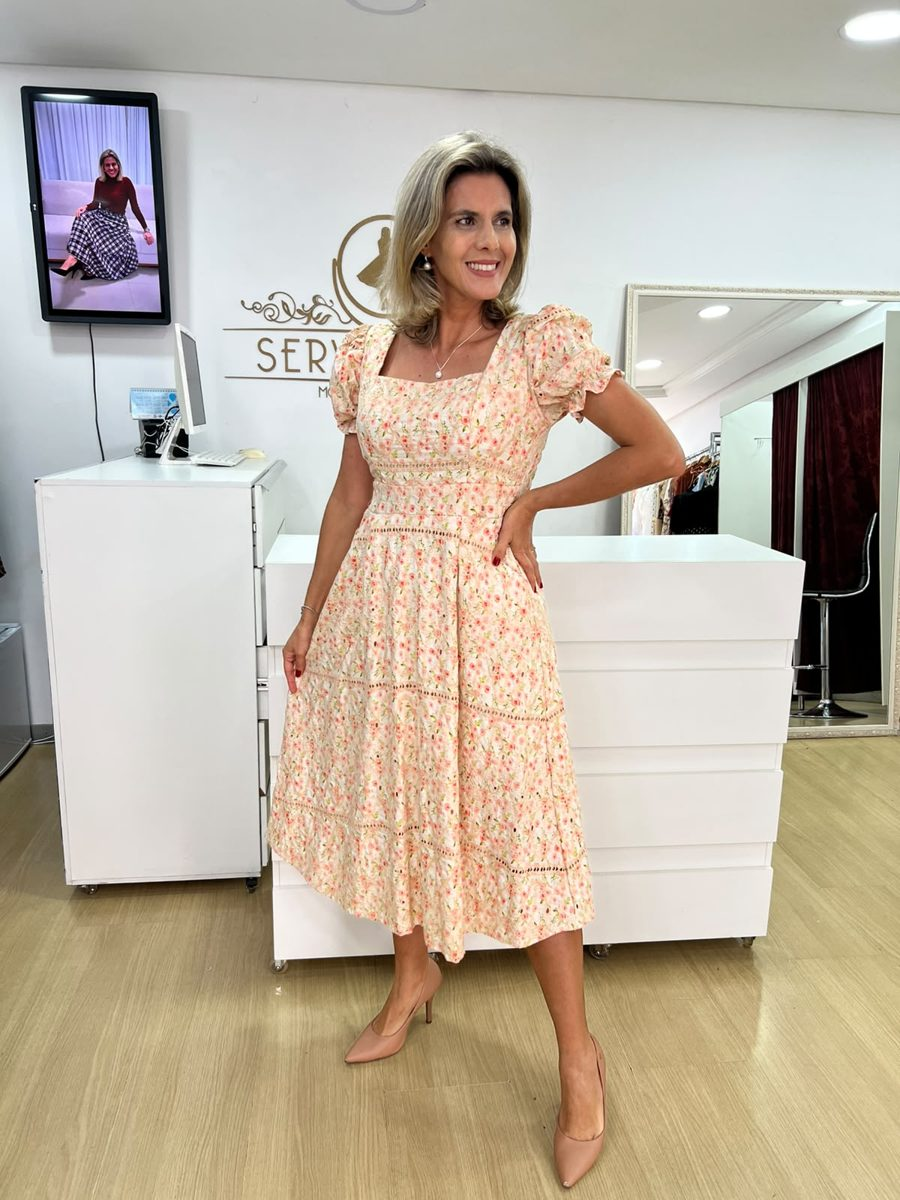
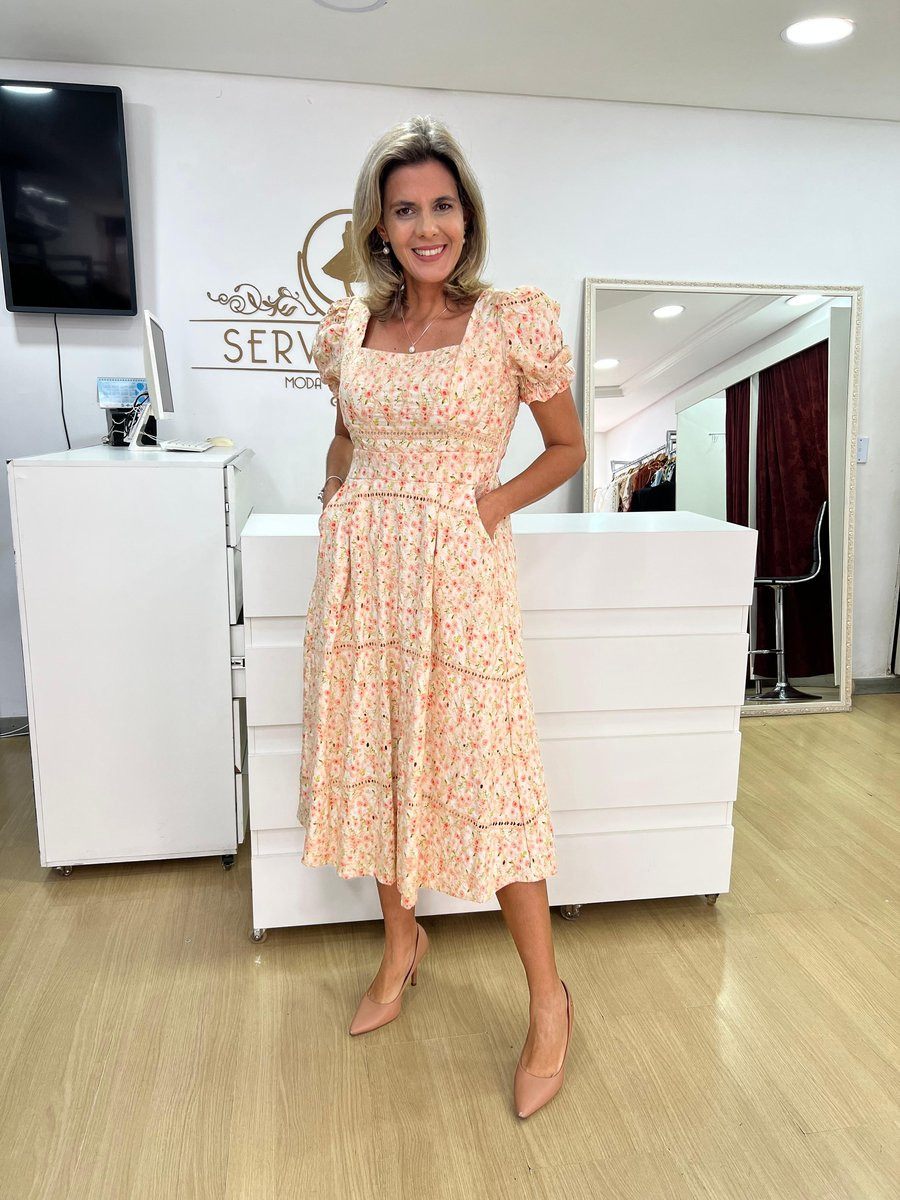
AUR-11: replace photos
Claude-Session: https://claude.ai/code/session_01QuFj6eBhbFVfzAP6AXL4uV

diff --git a/index.html b/index.html
@@ -368,9 +368,9 @@
       </a>
     </article>
 <article class="card" id="AUR-11" data-cat="vestidos">
-      <div class="photo" data-images="img/v16a.jpg?v=1790706750|img/v16b.jpg?v=1790706750">
-          <img src="img/v16a.jpg?v=1790706750" alt="Vestido Mid Bordado" loading="lazy" onclick="openLightbox(this)">
-          <div class="thumbs"><button type="button" class="on" onclick="event.stopPropagation();swapPhoto(this,'img/v16a.jpg?v=1790706750')"></button><button type="button" class="" onclick="event.stopPropagation();swapPhoto(this,'img/v16b.jpg?v=1790706750')"></button></div>
+      <div class="photo" data-images="img/v16a.jpg?v=1790785000|img/v16b.jpg?v=1790785000">
+          <img src="img/v16a.jpg?v=1790785000" alt="Vestido Mid Bordado" loading="lazy" onclick="openLightbox(this)">
+          <div class="thumbs"><button type="button" class="on" onclick="event.stopPropagation();swapPhoto(this,'img/v16a.jpg?v=1790785000')"></button><button type="button" class="" onclick="event.stopPropagation();swapPhoto(this,'img/v16b.jpg?v=1790785000')"></button></div>
         </div>
       <div class="info">
         <div class="sku">AUR-11</div>
